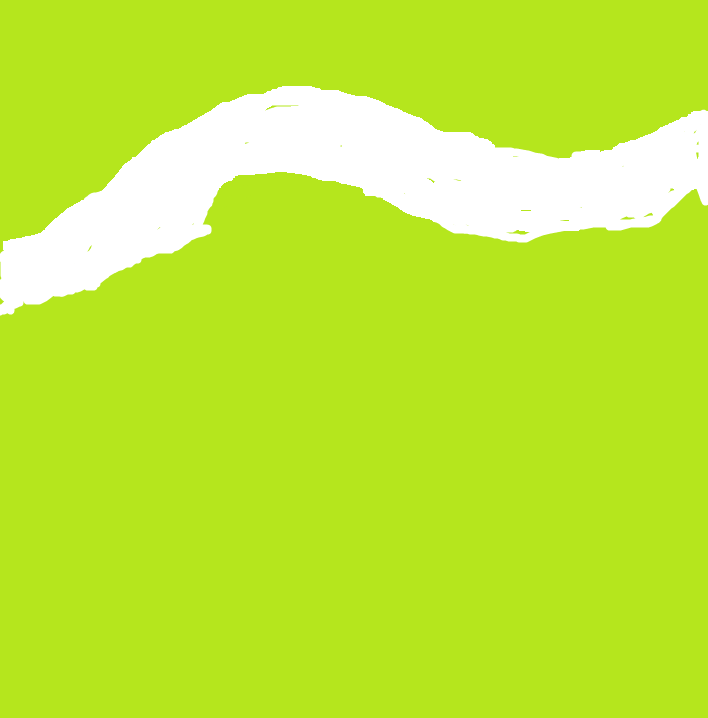
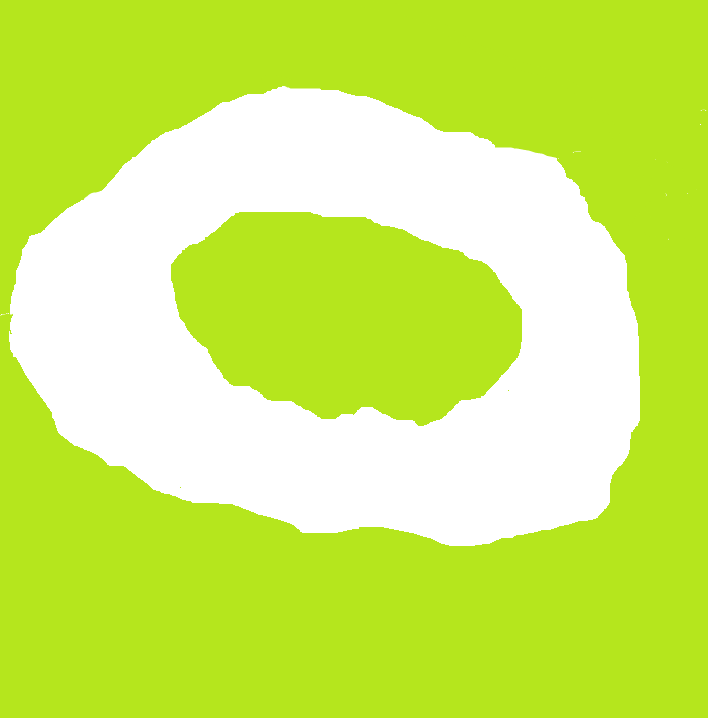
New course + detection that pacman is in the course
Changed the image for the course to be a round track.
The game exits when pacman is outside the course track by checking that
the background color at pacman's location is no longer the same color as
the  the course track,

Changed region(s): [[0.0, 0.1532, 1.0, 0.766]]

diff --git a/src/eu/olssonfamily/ratrace/GamePanel.java b/src/eu/olssonfamily/ratrace/GamePanel.java
@@ -4,6 +4,7 @@ import java.awt.Dimension;
 import java.awt.Graphics;
 import java.awt.Graphics2D;
 import java.awt.Image;
+import java.awt.image.BufferedImage;
 
 import javax.swing.ImageIcon;
 import javax.swing.JPanel;
@@ -12,11 +13,18 @@ public class GamePanel extends JPanel {
 	private static final long serialVersionUID = 1L;
 
 	private transient Image backgroundImage;
-	private Pacman pacman = new Pacman(100, 100);
+	private BufferedImage bufferedBackgroundImage;
+	
+	private Pacman pacman; 
 
 	public GamePanel(String imageResourcePath) {
+		
 		ImageIcon imageIcon = new ImageIcon(imageResourcePath);
 		backgroundImage = imageIcon.getImage();
+		bufferedBackgroundImage = getBufferedImageFromImage(backgroundImage);
+
+		pacman = new Pacman(30, 260, bufferedBackgroundImage);
+		
 		Dimension size = new Dimension(backgroundImage.getWidth(null), backgroundImage.getHeight(null));
 		PacmanController pacmanController = new PacmanController(pacman, this);
 		addKeyListener(pacmanController);
@@ -32,12 +40,26 @@ public class GamePanel extends JPanel {
 
 		Graphics2D g2 = (Graphics2D) g;
 
-		// Rectangle rectangle2render = new Rectangle(pacman.getX(),
-		// pacman.getY(), pacman.getWidth(), pacman.getHeight());
-		// g2.setClip(rectangle2render);
-
 		g.drawImage(backgroundImage, 0, 0, null);
 		pacman.drawPacman(g);
+	}
+	
+	BufferedImage getBufferedImageFromImage(Image image) {
+		   if (image instanceof BufferedImage)
+		    {
+		        return (BufferedImage) image;
+		    }
+
+		    // Create a buffered image with transparency
+		    BufferedImage bimage = new BufferedImage(image.getWidth(null), image.getHeight(null), BufferedImage.TYPE_INT_ARGB);
+
+		    // Draw the image on to the buffered image
+		    Graphics2D bGr = bimage.createGraphics();
+		    bGr.drawImage(image, 0, 0, null);
+		    bGr.dispose();
+
+		    // Return the buffered image
+		    return bimage;
 	}
 
 }

diff --git a/src/eu/olssonfamily/ratrace/Pacman.java b/src/eu/olssonfamily/ratrace/Pacman.java
@@ -3,13 +3,18 @@ package eu.olssonfamily.ratrace;
 import java.awt.Graphics;
 import java.awt.Graphics2D;
 import java.awt.event.KeyEvent;
+import java.awt.image.BufferedImage;
 
 public class Pacman extends Sprite {
 
 	final int PACMAN_SPEED = 5;
+	BufferedImage bufferedBackgroundImage;
 
-	public Pacman(int x, int y) {
+	public Pacman(int x, int y, BufferedImage bufferedBackgroundImage) {
 		super(x, y);
+
+		this.bufferedBackgroundImage = bufferedBackgroundImage;
+
 		loadImage("resources/pacman.png");
 		getImageDimensions();
 	}
@@ -19,29 +24,40 @@ public class Pacman extends Sprite {
 		x = x + dx * PACMAN_SPEED;
 		y = y + dy * PACMAN_SPEED;
 	}
-	
-	
+
 	public void drawPacman(Graphics g) {
 		System.out.println("draw packman called");
+
+		// Detect if pacman is outside the course, i.e. touching any pixel that is not the same color as the course.
+		if (getX() >= 0) {
+			int colorAtPacmanLocation = bufferedBackgroundImage.getRGB(getX(), getY());
+			System.out.println("Background color at pacman location (x, y)  = (" + getX() + "," + getY() + ") "
+					+ colorAtPacmanLocation);
+			
+			if (colorAtPacmanLocation != -1 ) {
+				System.exit(0);
+			}
+		}
+
 		Graphics2D g2 = (Graphics2D) g;
+		g2.getPaint();
 		g2.drawImage(getImage(), getX(), getY(), null);
 	}
-
 
 	public void changeDirection(KeyEvent e) {
 
 		System.out.println("Pacman key event recieved");
-		
+
 		int key = e.getKeyCode();
 
 		dx = 0;
 		dy = 0;
-		
+
 		switch (key) {
 		case KeyEvent.VK_LEFT:
 			dx = -1;
 			break;
-		case KeyEvent.VK_RIGHT: 
+		case KeyEvent.VK_RIGHT:
 			dx = 1;
 			break;
 		case KeyEvent.VK_UP:
